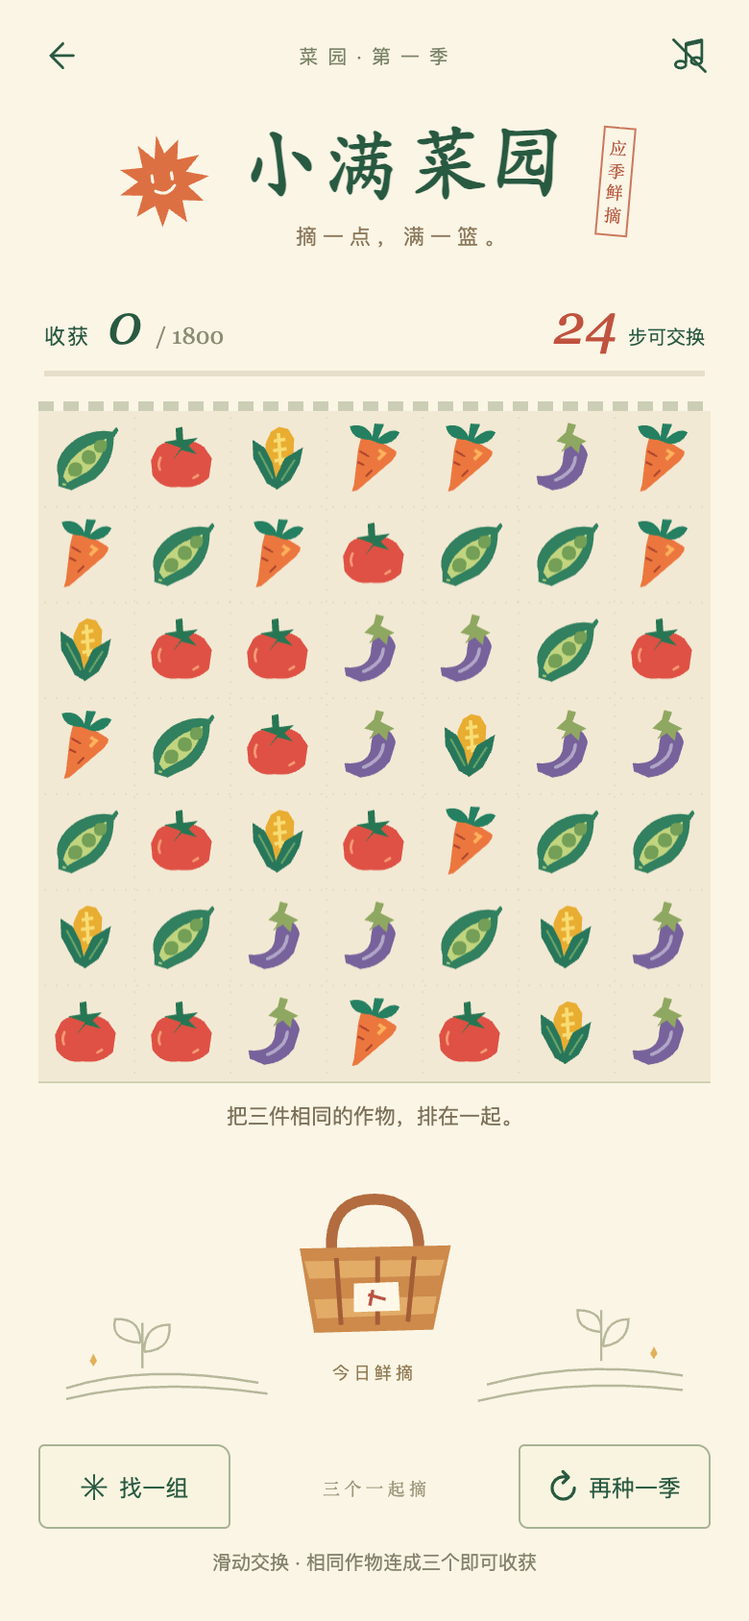
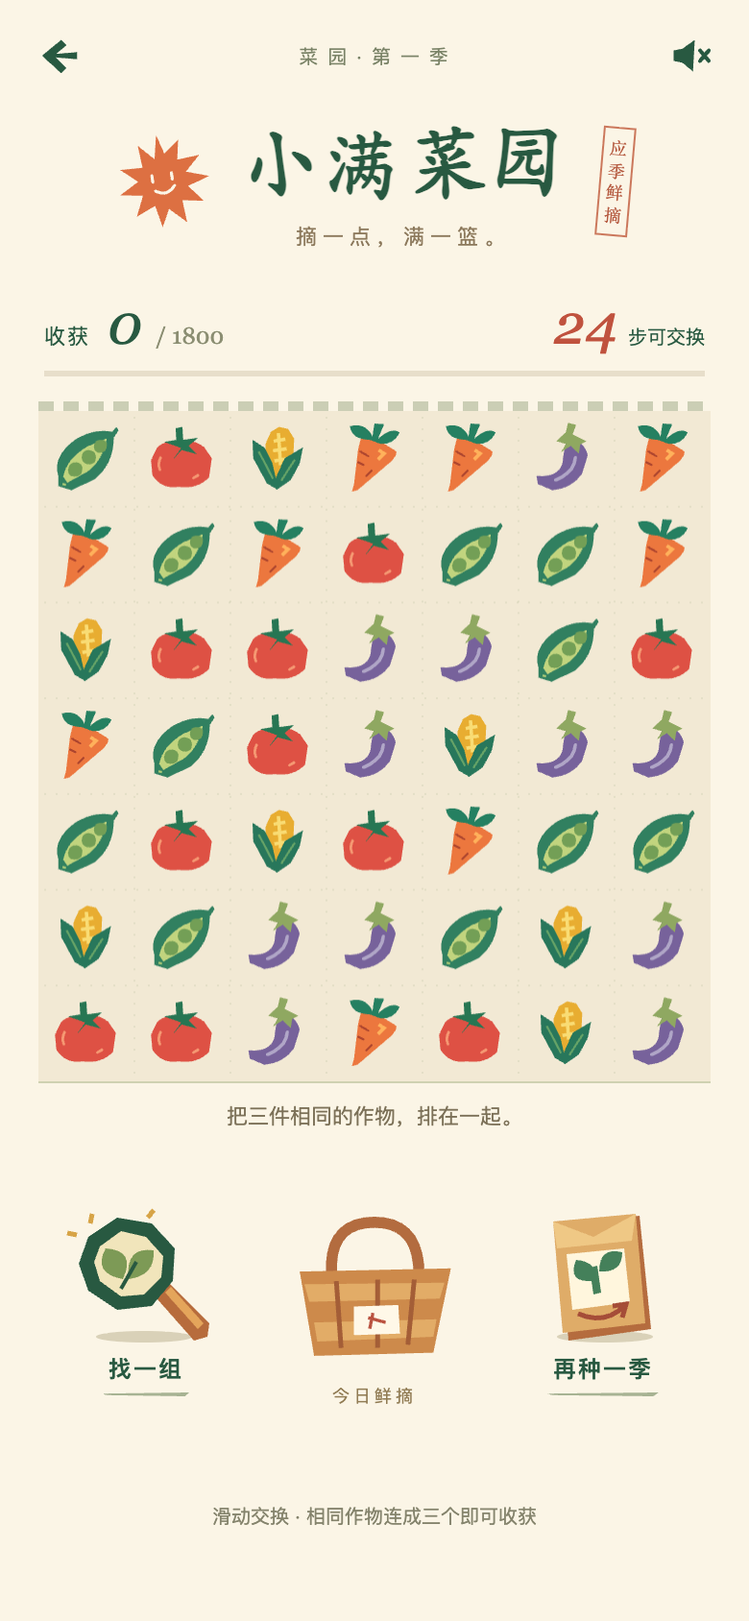
Refine game control art guidance and redraw farm UI

diff --git a/play/farm/skill/style.css b/play/farm/skill/style.css
@@ -1,5 +1,126 @@
-:root{--paper:#fbf5e6;--ink:#285941;--rust:#c0523e;--line:#d8cfb7}*{box-sizing:border-box}body{margin:0;background:#e7e7d6;color:var(--ink);font-family:-apple-system,BlinkMacSystemFont,"PingFang SC",sans-serif}button,a{-webkit-tap-highlight-color:transparent;touch-action:manipulation}button{font:inherit;cursor:pointer}button:focus-visible,a:focus-visible{outline:2px solid var(--rust);outline-offset:3px}.atelier{position:relative;max-width:430px;height:100svh;min-height:660px;max-height:960px;margin:auto;padding:max(10px,env(safe-area-inset-top)) 20px max(14px,env(safe-area-inset-bottom));background:var(--paper);display:flex;flex-direction:column;overflow:hidden}.navigation{height:38px;flex-shrink:0;display:flex;align-items:center;justify-content:space-between}.back,.sound{width:44px;height:44px;display:grid;place-items:center;background:none;border:0;color:var(--ink);padding:11px;text-decoration:none}.back{margin-left:-11px}.sound{margin-right:-11px}.navigation svg{width:22px;height:22px;stroke:currentColor;stroke-width:1.5;fill:none;stroke-linecap:round;stroke-linejoin:round}.sound[aria-pressed=true] .sound-off{display:none}.edition{font-size:10px;letter-spacing:1px;color:#7a8367}.identity{min-height:100px;display:flex;align-items:center;justify-content:center;gap:15px;flex-shrink:0;padding:4px 0 12px;position:relative}.identity h1{font:700 42px "Kaiti SC","STKaiti","Songti SC",serif;letter-spacing:1px;margin:0;line-height:1.18;white-space:nowrap}.identity h1 span{display:inline-block}.identity h1 span:nth-child(1){transform:rotate(-7deg)}.identity h1 span:nth-child(2){transform:translateY(2px) rotate(3deg)}.identity h1 span:nth-child(3){transform:rotate(-3deg)}.identity h1 span:nth-child(4){transform:translateY(-2px) rotate(5deg)}.sun{width:48px;height:48px;transform:rotate(-9deg);align-self:center}.sun svg{width:100%;height:100%}.subtitle{font-size:11px;letter-spacing:3px;margin:8px 0 0;text-align:center;color:#8c795c}.season-mark{border:1px solid #cb775b;color:#b55a40;font:9px/1.3 "Songti SC",serif;padding:4px 3px;transform:rotate(5deg);margin-left:1px}.work{display:flex;flex-direction:column;min-height:0;flex:1}.ledger{display:flex;justify-content:space-between;align-items:center;min-height:40px;padding:0 3px;flex-shrink:0}.score-ledger,.move-ledger{display:flex;align-items:baseline;gap:9px}.ledger-label{font-size:11px;letter-spacing:1px}.score-line{display:inline-flex;align-items:baseline;gap:5px}.score-line strong,.move-ledger strong{font:italic 29px/1 Georgia,serif;font-variant-numeric:tabular-nums;min-width:20px}.score-line>span{font:12px Georgia,serif;color:#8b8e72}.move-ledger strong{color:var(--rust)}.move-ledger{gap:6px}.move-ledger .ledger-label{font-size:10px;letter-spacing:0}.progress{height:3px;background:#e7deca;margin:5px 3px 13px;flex-shrink:0}.progress span{display:block;height:100%;width:0;background:var(--rust);transition:width .2s}.field-edge{height:5px;background:repeating-linear-gradient(90deg,#b1b99a 0 8px,transparent 8px 13px);opacity:.65;flex-shrink:0}.board{position:relative;aspect-ratio:1;width:100%;flex-shrink:0;touch-action:none;overflow:hidden;background:#f2e9d4;border-bottom:1px solid #cfd1b1}.board canvas,.cells{position:absolute;inset:0;width:100%;height:100%}.cells{display:grid;grid-template:repeat(7,1fr)/repeat(7,1fr)}.cell{background:none;border:0;padding:0;touch-action:none}.cell:focus-visible{outline:2px solid var(--rust);outline-offset:-3px}.status{font-size:11px;color:#7c7158;min-height:28px;line-height:1.6;text-align:center;margin:0;padding-top:8px;flex-shrink:0}.harvest-dock{position:relative;flex:1;min-height:92px;max-height:160px;display:flex;flex-direction:column;align-items:center;justify-content:center}.field-sketch{position:absolute;left:0;right:0;bottom:16px;pointer-events:none}.field-sketch svg{display:block;width:100%;height:85px}.basket{width:106px;height:106px;position:relative;margin-top:-17px}.basket-front{position:absolute;inset:0;background:url('../assets/basket-front.svg') center/contain no-repeat;z-index:2;pointer-events:none}.basket-crops{position:absolute;inset:0;clip-path:polygon(13.28125% 0,87.5% 0,87.5% 39.0625%,78.90625% 80.46875%,20.3125% 82.03125%,13.28125% 40.625%);pointer-events:none;z-index:1}.basket-caption{font-size:9px;letter-spacing:2px;color:#917c54;position:relative;margin-top:-5px}.basket-crop{position:absolute;width:31.25%;height:31.25%;background-image:url('../assets/crops-cut.svg');background-size:300% 200%}.harvest-flight{position:fixed;z-index:8;width:36px;height:36px;background-image:url('../assets/crops-cut.svg');background-size:300% 200%;pointer-events:none}.tools{display:flex;align-items:center;justify-content:space-between;gap:6px;flex-shrink:0}.tools button{font-size:12px;color:var(--ink);border:1px solid #a7b393;border-radius:3px 7px 3px 5px;background:#f8f4df;padding:10px 12px;min-height:44px;min-width:100px;display:flex;align-items:center;justify-content:center;gap:6px}.tools button span{font-size:19px}.tools button:active{background:#e4e9cd;transform:translateY(1px)}.tools button:disabled{opacity:.45}.tool-note{font:9px "Songti SC",serif;color:#9c987b}.instructions{flex-shrink:0;text-align:center;font-size:10px;color:#85846d;margin:10px 0 0;line-height:1.4}dialog{border:1px solid #b8bc9b;background:var(--paper);color:var(--ink);width:300px;max-width:90%;border-radius:5px 13px 5px 9px;text-align:center;padding:25px 24px 28px;box-shadow:0 15px 80px #31473540}dialog::backdrop{background:#334b385c;backdrop-filter:blur(2px)}.close-result{position:absolute;right:5px;top:3px;background:none;border:0;width:44px;height:44px;font-size:24px;color:#738164}.result-basket{width:85px;height:85px;margin:0 auto;position:relative}.result-eyebrow{font-size:9px;letter-spacing:1px;margin:8px 0 12px}dialog h2{font:700 30px "Kaiti SC","Songti SC",serif;margin:12px 0}#result-copy{font-size:12px;line-height:1.9;color:#7c8169}.result-score{display:flex;flex-direction:column;gap:6px;margin:20px}.result-score strong{font:italic 37px Georgia,serif;color:var(--rust)}.result-score span{font-size:10px}.play-again{border:0;background:var(--ink);color:var(--paper);border-radius:3px 6px 3px 6px;padding:13px 25px;font-size:14px;min-height:44px}@media(min-width:600px){.atelier{height:880px;margin:20px auto;box-shadow:0 8px 50px #3b4f3020;border-radius:5px}}@media(max-height:780px){.atelier{padding-top:max(6px,env(safe-area-inset-top));padding-bottom:max(10px,env(safe-area-inset-bottom))}.navigation{height:34px}.identity{min-height:82px;padding-bottom:8px}.identity h1{font-size:39px}.sun{width:42px;height:42px}.subtitle{margin-top:5px}.harvest-dock{min-height:80px}.status{min-height:25px;padding-top:5px}.progress{margin-bottom:9px}.instructions{margin-top:6px}}@media(max-height:700px){.identity{min-height:68px}.identity h1{font-size:34px}.sun{width:36px;height:36px}.season-mark{font-size:8px}.harvest-dock{min-height:62px}.basket{width:90px;height:90px;margin-top:-20px}.basket-caption{display:none}.instructions{font-size:9px}.ledger{min-height:36px}.status{font-size:10px}.tool-note{display:none}}@media(prefers-reduced-motion:reduce){*{transition:none!important}}
-@media(max-width:350px){.atelier{padding-left:14px;padding-right:14px}.identity{gap:9px}.identity h1{font-size:34px}.season-mark{display:none}.tools button{min-width:95px}.tool-note{display:none}}
+:root{--paper:#fbf5e6;--ink:#285941;--rust:#c0523e;--line:#d8cfb7}
+*{box-sizing:border-box}
+body{margin:0;background:#e7e7d6;color:var(--ink);font-family:-apple-system,BlinkMacSystemFont,"PingFang SC",sans-serif}
+button,a{-webkit-tap-highlight-color:transparent;touch-action:manipulation}
+button{font:inherit;cursor:pointer}
+button:focus-visible,a:focus-visible{outline:2px solid var(--rust);outline-offset:3px}
+.atelier{position:relative;max-width:430px;height:100svh;min-height:660px;max-height:960px;margin:auto;padding:max(10px,env(safe-area-inset-top)) 20px max(14px,env(safe-area-inset-bottom));background:var(--paper);display:flex;flex-direction:column;overflow:hidden}
+.navigation{height:38px;flex-shrink:0;display:flex;align-items:center;justify-content:space-between}
+.back,.sound{width:44px;height:44px;display:grid;place-items:center;background:none;border:0;color:var(--ink);padding:11px;text-decoration:none}
+.back{margin-left:-11px}
+.sound{margin-right:-11px}
+.navigation svg{width:22px;height:22px;stroke:currentColor;stroke-width:1.5;fill:none;stroke-linecap:round;stroke-linejoin:round}
+.sound[aria-pressed=true] .sound-off{display:none}
+.edition{font-size:10px;letter-spacing:1px;color:#7a8367}
+.identity{min-height:100px;display:flex;align-items:center;justify-content:center;gap:15px;flex-shrink:0;padding:4px 0 12px;position:relative}
+.identity h1{font:700 42px "Kaiti SC","STKaiti","Songti SC",serif;letter-spacing:1px;margin:0;line-height:1.18;white-space:nowrap}
+.identity h1 span{display:inline-block}
+.identity h1 span:nth-child(1){transform:rotate(-7deg)}
+.identity h1 span:nth-child(2){transform:translateY(2px) rotate(3deg)}
+.identity h1 span:nth-child(3){transform:rotate(-3deg)}
+.identity h1 span:nth-child(4){transform:translateY(-2px) rotate(5deg)}
+.sun{width:48px;height:48px;transform:rotate(-9deg);align-self:center}
+.sun svg{width:100%;height:100%}
+.subtitle{font-size:11px;letter-spacing:3px;margin:8px 0 0;text-align:center;color:#8c795c}
+.season-mark{border:1px solid #cb775b;color:#b55a40;font:9px/1.3 "Songti SC",serif;padding:4px 3px;transform:rotate(5deg);margin-left:1px}
+.work{display:flex;flex-direction:column;min-height:0;flex:1}
+.ledger{display:flex;justify-content:space-between;align-items:center;min-height:40px;padding:0 3px;flex-shrink:0}
+.score-ledger,.move-ledger{display:flex;align-items:baseline;gap:9px}
+.ledger-label{font-size:11px;letter-spacing:1px}
+.score-line{display:inline-flex;align-items:baseline;gap:5px}
+.score-line strong,.move-ledger strong{font:italic 29px/1 Georgia,serif;font-variant-numeric:tabular-nums;min-width:20px}
+.score-line>span{font:12px Georgia,serif;color:#8b8e72}
+.move-ledger strong{color:var(--rust)}
+.move-ledger{gap:6px}
+.move-ledger .ledger-label{font-size:10px;letter-spacing:0}
+.progress{height:3px;background:#e7deca;margin:5px 3px 13px;flex-shrink:0}
+.progress span{display:block;height:100%;width:0;background:var(--rust);transition:width .2s}
+.field-edge{height:5px;background:repeating-linear-gradient(90deg,#b1b99a 0 8px,transparent 8px 13px);opacity:.65;flex-shrink:0}
+.board{position:relative;aspect-ratio:1;width:100%;flex-shrink:0;touch-action:none;overflow:hidden;background:#f2e9d4;border-bottom:1px solid #cfd1b1}
+.board canvas,.cells{position:absolute;inset:0;width:100%;height:100%}
+.cells{display:grid;grid-template:repeat(7,1fr)/repeat(7,1fr)}
+.cell{background:none;border:0;padding:0;touch-action:none}
+.cell:focus-visible{outline:2px solid var(--rust);outline-offset:-3px}
+.status{font-size:11px;color:#7c7158;min-height:28px;line-height:1.6;text-align:center;margin:0;padding-top:8px;flex-shrink:0}
+.harvest-dock{position:relative;flex:1;min-height:124px;max-height:180px;display:grid;grid-template-columns:1fr 106px 1fr;align-items:center;column-gap:10px}
+.harvest-center{display:flex;flex-direction:column;align-items:center;align-self:center}
+.basket{width:106px;height:106px;position:relative;margin-top:-12px}
+.garden-tool{appearance:none;position:relative;justify-self:center;width:90px;height:100px;padding:0 1px 5px;border:0;background:none;color:var(--ink);display:flex;flex-direction:column;align-items:center;justify-content:flex-end;border-radius:0}
+.tool-art{display:block;width:88px;height:76px;overflow:visible;pointer-events:none}
+.tool-face{transform-origin:44px 65px;transition:transform 110ms ease-out}
+.tool-label{font-size:12px;font-weight:600;letter-spacing:1px;line-height:20px;position:relative}
+.tool-label:after{content:"";display:block;height:2px;background:#a7b393;clip-path:polygon(0 30%,100% 0,95% 100%,4% 70%);margin:2px -3px 0}
+.garden-tool:not(:disabled):active .tool-face,.play-again:active .tool-face{transform:translateY(3px) rotate(-4deg)}
+.seed-tool:not(:disabled):active .tool-face{transform:translateY(3px) rotate(3deg)}
+.garden-tool:not(:disabled):active .tool-label{color:var(--rust)}
+.garden-tool:disabled{cursor:default;color:#71745b}
+.garden-tool:disabled .tool-art{filter:grayscale(.8);opacity:.48}
+.garden-tool:focus-visible{outline-offset:1px}
+.sound[aria-pressed=false] .sound-on{display:none}
+.navigation svg{stroke-width:2}
+.navigation a:active svg,.navigation button:active svg{transform:translateY(2px)}
+.basket-front{position:absolute;inset:0;background:url('../assets/basket-front.svg') center/contain no-repeat;z-index:2;pointer-events:none}
+.basket-crops{position:absolute;inset:0;clip-path:polygon(13.28125% 0,87.5% 0,87.5% 39.0625%,78.90625% 80.46875%,20.3125% 82.03125%,13.28125% 40.625%);pointer-events:none;z-index:1}
+.basket-caption{font-size:9px;letter-spacing:2px;color:#917c54;position:relative;margin-top:-5px}
+.basket-crop{position:absolute;width:31.25%;height:31.25%;background-image:url('../assets/crops-cut.svg');background-size:300% 200%}
+.harvest-flight{position:fixed;z-index:8;width:36px;height:36px;background-image:url('../assets/crops-cut.svg');background-size:300% 200%;pointer-events:none}
+.instructions{flex-shrink:0;text-align:center;font-size:10px;color:#85846d;margin:10px 0 0;line-height:1.4}
+dialog{border:0;background:var(--paper);color:var(--ink);width:300px;max-width:90%;border-radius:0;text-align:center;padding:25px 24px 20px;box-shadow:0 15px 80px #31473540}
+dialog:before{content:"";position:absolute;inset:8px;pointer-events:none;border:1px solid #ccc3a6;clip-path:polygon(0 0,42% 0,42% 1%,58% 1%,58% 0,100% 0,100% 100%,0 100%)}
+dialog:after{content:"";position:absolute;top:0;left:calc(50% - 17px);width:34px;height:8px;background:#bd6246;clip-path:polygon(0 0,100% 0,97% 100%,3% 80%)}
+dialog::backdrop{background:#334b385c;backdrop-filter:blur(2px)}
+.close-result{position:absolute;right:5px;top:3px;background:none;border:0;width:44px;height:44px;font-size:24px;color:#738164}
+.result-basket{width:85px;height:85px;margin:0 auto;position:relative}
+.result-eyebrow{font-size:9px;letter-spacing:1px;margin:8px 0 12px}
+dialog h2{font:700 30px "Kaiti SC","Songti SC",serif;margin:12px 0}
+#result-copy{font-size:12px;line-height:1.9;color:#7c8169}
+.result-score{display:flex;flex-direction:column;gap:6px;margin:20px}
+.result-score strong{font:italic 37px Georgia,serif;color:var(--rust)}
+.result-score span{font-size:10px}
+.close-result svg{width:20px;height:20px;fill:none;stroke:currentColor;stroke-width:3}
+.play-again{appearance:none;border:0;background:none;color:var(--ink);padding:0 14px 6px;font-size:14px;font-weight:600;min-height:70px;display:inline-flex;align-items:center;gap:4px}
+.play-again .tool-art{width:66px;height:57px}
+.play-again>span{border-bottom:2px solid #a7b393;padding:5px 3px}
+.result-score{margin:16px}
+.result-score strong{font-size:35px}
+@media(min-width:600px){.atelier{height:880px;margin:20px auto;box-shadow:0 8px 50px #3b4f3020;border-radius:5px}
+}
+@media(max-height:780px){.atelier{padding-top:max(6px,env(safe-area-inset-top));padding-bottom:max(10px,env(safe-area-inset-bottom))}
+.navigation{height:34px}
+.identity{min-height:82px;padding-bottom:8px}
+.identity h1{font-size:39px}
+.sun{width:42px;height:42px}
+.subtitle{margin-top:5px}
+.harvest-dock{min-height:122px}
+.status{min-height:25px;padding-top:5px}
+.progress{margin-bottom:9px}
+.instructions{margin-top:6px}
+}
+@media(max-height:700px){.identity{min-height:68px}
+.identity h1{font-size:34px}
+.sun{width:36px;height:36px}
+.season-mark{font-size:8px}
+.harvest-dock{min-height:114px;grid-template-columns:1fr 90px 1fr;gap:3px}
+.basket{width:90px;height:90px;margin-top:-8px}
+.basket-caption{font-size:8px}
+.instructions{font-size:9px}
+.ledger{min-height:36px}
+.status{font-size:10px}
+}
+@media(prefers-reduced-motion:reduce){*{transition:none!important}
+}
+
+@media(max-width:350px){.atelier{padding-left:14px;padding-right:14px}
+.identity{gap:9px}
+.identity h1{font-size:34px}
+.season-mark{display:none}
+}
+
 
 /* Shared coordinates for the handle, interior mask, produce and opaque rim. */
 .basket,.result-basket{isolation:isolate;background:url('../assets/basket-back.svg') center/contain no-repeat}
+
+
+@media(max-height:700px){.garden-tool{height:96px}
+.tool-art{width:80px;height:69px}
+}

diff --git a/play/farm/skill/index.html b/play/farm/skill/index.html
@@ -1,14 +1,14 @@
 <!doctype html>
 <html lang="zh-CN">
 <head>
-<meta charset="utf-8"><meta name="viewport" content="width=device-width,initial-scale=1,viewport-fit=cover"><meta name="theme-color" content="#fbf5e6"><link rel="icon" href="data:,"><title>小满菜园 · 消消乐</title><link rel="stylesheet" href="./style.css">
+<meta charset="utf-8"><meta name="viewport" content="width=device-width,initial-scale=1,viewport-fit=cover"><meta name="theme-color" content="#fbf5e6"><link rel="icon" href="data:,"><title>小满菜园 · 消消乐</title><link rel="stylesheet" href="./style.css?v=3.2.0">
 </head>
 <body>
 <main class="atelier">
   <nav class="navigation" aria-label="游戏导航">
-    <a class="back" href="../index.html" aria-label="返回游戏展架"><svg viewBox="0 0 24 24" aria-hidden="true"><path d="m14 5-7 7 7 7M7 12h13"/></svg></a>
+    <a class="back" href="../index.html" aria-label="返回游戏展架"><svg viewBox="0 0 24 24" aria-hidden="true"><path fill="currentColor" stroke="none" d="m13 3 3 3-6 5 12-1v4l-12-1 6 6-3 3L2 12Z"/></svg></a>
     <span class="edition">菜 园 · 第 一 季</span>
-    <button id="sound" class="sound" type="button" aria-label="开启声音" aria-pressed="false"><svg viewBox="0 0 24 24" aria-hidden="true"><path d="M10 16V5l9-2v11M10 6l9-2"/><ellipse cx="7" cy="17" rx="3" ry="2"/><ellipse cx="16" cy="15" rx="3" ry="2"/><path class="sound-off" d="m3 3 18 18"/></svg></button>
+    <button id="sound" class="sound" type="button" aria-label="开启声音" aria-pressed="false"><svg viewBox="0 0 24 24" aria-hidden="true"><path fill="currentColor" stroke="none" d="m3 9 5-1 7-5-1 18-6-5-5-1Z"/><path class="sound-on" d="M18 7q5 5 0 10" stroke-width="2.5"/><path class="sound-off" d="m18 9 5 6m0-6-5 6" stroke-width="2.2"/></svg></button>
   </nav>
   <header class="identity">
     <div class="sun" aria-hidden="true"><svg viewBox="0 0 70 70"><path d="m35 0 4 15 12-9-3 15 17-1-12 11 17 6-17 5 10 13-16-3 1 17-12-12-7 13-3-17-15 6 7-15-17-3 15-8L4 22l17 1-1-17 11 12Z" fill="#dd7042"/><path d="M27 30v5m15-5v5m-14 7q8 6 15-2" fill="none" stroke="#fbf5e6" stroke-width="2.3" stroke-linecap="round"/></svg></div>
@@ -24,15 +24,14 @@
     <div class="field-edge" aria-hidden="true"></div>
     <div id="board" class="board" aria-busy="true"><canvas id="art" aria-hidden="true"></canvas><div id="cells" class="cells" role="group" aria-label="七行七列作物。方向键移动焦点，回车选中两件相邻作物，或手指轻扫交换。"></div></div>
     <p id="status" class="status" role="status" aria-live="polite">正在整理菜地…</p>
-    <div class="harvest-dock" aria-label="收获篮">
-      <div class="field-sketch" aria-hidden="true"><svg viewBox="0 0 340 90"><g fill="none" stroke="#b6b89a" stroke-width="1.3"><path d="M0 76Q44 62 106 73m-106 9q48-12 111-3m121-5q51-14 108-5m-113 14q54-13 113-6M42 65V40m-1 11q-17-1-14-13 14-1 14 13m2 5q0-15 14-15 1 14-14 15m252 5V33m0 12q-14-1-13-12 14 0 13 12m1 8q1-15 14-15 0 13-14 15"/></g><g fill="#e3b05c"><path d="m13 61 2-4 2 4-2 3m307-7 2-4 2 4-2 3"/></g></svg></div>
-      <div class="basket"><div id="receiver" class="basket-crops" aria-hidden="true"></div><div class="basket-front" aria-hidden="true"></div></div>
-      <span class="basket-caption">今日鲜摘</span>
+    <div class="harvest-dock" aria-label="收获与农具">
+      <button id="hint" class="garden-tool hint-tool" type="button" disabled><svg class="tool-art" viewBox="0 0 88 76" aria-hidden="true"><ellipse class="tool-shadow" cx="43" cy="69" rx="25" ry="3" fill="#d9d1b8"/><g class="tool-face"><path fill="#b76c3c" d="m46 45 8-6 23 23-1 7-7 2Z"/><path fill="#e4a55b" d="m54 46 3-3 17 19-3 3Z"/><path fill="#285941" d="M14 17 29 7 47 10 59 23 58 40 47 53 29 55 14 45 9 31Z"/><path fill="#f1e5bb" d="m20 22 11-8 13 3 9 10-1 11-9 9-12 1-11-8-3-10Z"/><path fill="#7d9a56" d="M32 39Q16 36 23 23q16 1 9 16m3 0q-2-17 13-15 1 13-13 15"/><path d="m31 44 8-14" stroke="#285941" stroke-width="2"/><path d="m15 10 1-5m-8 11-5-1m42-8 3-4" stroke="#d7a447" stroke-width="2.5"/></g></svg><span class="tool-label">找一组</span></button>
+      <div class="harvest-center"><div class="basket"><div id="receiver" class="basket-crops" aria-hidden="true"></div><div class="basket-front" aria-hidden="true"></div></div><span class="basket-caption">今日鲜摘</span></div>
+      <button id="restart" class="garden-tool seed-tool" type="button" disabled><svg class="tool-art" viewBox="0 0 88 76" aria-hidden="true"><ellipse class="tool-shadow" cx="45" cy="69" rx="25" ry="3" fill="#d9d1b8"/><g class="tool-face"><path fill="#b56c3e" d="m21 10 42-4 6 59-43 6Z"/><path fill="#dfac68" d="m18 9 43-4 5 57-43 5Z"/><path fill="#efc885" d="m18 9 21 8 22-12-2 14-39 4Z"/><path fill="#fff6dd" d="m25 26 30-3 3 28-30 4Z"/><path fill="#44805a" d="m39 47-2-14 4-1 2 14Zm0-7Q25 41 30 29q12 1 9 11m3-5q0-13 12-10 0 11-12 10"/><path d="M31 57q14 6 24-4m-1 6 2-7-7 1" fill="none" stroke="#a54d38" stroke-width="2.5"/></g></svg><span class="tool-label">再种一季</span></button>
     </div>
-    <div class="tools"><button id="hint" type="button" disabled><span aria-hidden="true">✳</span> 找一组</button><span class="tool-note" aria-hidden="true">三 个 一 起 摘</span><button id="restart" type="button" disabled><span aria-hidden="true">↻</span> 再种一季</button></div>
     <p class="instructions">滑动交换 · 相同作物连成三个即可收获</p>
   </section>
-  <dialog id="result" aria-labelledby="result-title"><button id="close-result" class="close-result" type="button" aria-label="关闭结果，查看菜地">×</button><div class="result-basket" aria-hidden="true"></div><p class="result-eyebrow">小 满 菜 园 · 今 日 收 成</p><h2 id="result-title"></h2><p id="result-copy"></p><div class="result-score"><strong id="result-score"></strong><span>收获积分</span></div><button id="play-again" class="play-again" type="button">再种一季</button></dialog>
+  <dialog id="result" aria-labelledby="result-title"><button id="close-result" class="close-result" type="button" aria-label="关闭结果，查看菜地"><svg viewBox="0 0 24 24" aria-hidden="true"><path d="m6 5 13 14M18 5 5 18"/></svg></button><div class="result-basket" aria-hidden="true"></div><p class="result-eyebrow">小 满 菜 园 · 今 日 收 成</p><h2 id="result-title"></h2><p id="result-copy"></p><div class="result-score"><strong id="result-score"></strong><span>收获积分</span></div><button id="play-again" class="play-again" type="button"><svg class="tool-art" viewBox="0 0 88 76" aria-hidden="true"><ellipse class="tool-shadow" cx="45" cy="69" rx="25" ry="3" fill="#d9d1b8"/><g class="tool-face"><path fill="#b56c3e" d="m21 10 42-4 6 59-43 6Z"/><path fill="#dfac68" d="m18 9 43-4 5 57-43 5Z"/><path fill="#efc885" d="m18 9 21 8 22-12-2 14-39 4Z"/><path fill="#fff6dd" d="m25 26 30-3 3 28-30 4Z"/><path fill="#44805a" d="m39 47-2-14 4-1 2 14Zm0-7Q25 41 30 29q12 1 9 11m3-5q0-13 12-10 0 11-12 10"/><path d="M31 57q14 6 24-4m-1 6 2-7-7 1" fill="none" stroke="#a54d38" stroke-width="2.5"/></g></svg><span>再种一季</span></button></dialog>
 </main>
 <script type="module" src="./app.js"></script>
 </body></html>

diff --git a/play/farm/index.html b/play/farm/index.html
@@ -1,1 +1,1 @@
-<!doctype html><html lang="zh-CN"><head><meta charset="UTF-8"><meta name="viewport" content="width=device-width,initial-scale=1"><title>农场消消乐 · 两种版本</title><link rel="icon" href="data:,"><style>*{box-sizing:border-box}body{margin:0;background:#f6f3e8;color:#33452e;font-family:-apple-system,BlinkMacSystemFont,'PingFang SC',sans-serif}main{max-width:930px;margin:auto;padding:44px 24px}header{border-bottom:1px solid #d7ddc9;padding-bottom:25px;margin-bottom:30px}h1{font:700 36px 'Songti SC',serif;margin:0 0 14px}p{color:#7b826c;font-size:13px;line-height:1.9;margin:0}.versions{display:grid;grid-template-columns:1fr 1fr;gap:30px}article{min-width:0}h2{font-size:19px;margin:0 0 8px}article p{min-height:50px}a{color:inherit;text-decoration:none}.preview{display:block;background:#e8eadb;border-radius:16px;overflow:hidden;margin:15px 0;height:470px;text-align:center}.preview img{height:100%;max-width:100%;object-fit:contain}.play{display:block;padding:15px;background:#526d3b;color:#fffbe9;border-radius:8px;text-align:center;font-size:14px}.baseline{background:#fff;border:1px solid #a8b293;color:#48623d}footer{margin-top:30px;border-top:1px solid #d7ddc9;padding-top:20px;font-size:11px;line-height:1.9;color:#929681}a:focus-visible{outline:3px solid #d9a953;outline-offset:4px}@media(max-width:600px){main{padding:28px 16px}h1{font-size:29px}.versions{gap:14px}.preview{height:330px;border-radius:10px}.preview img{width:100%;height:100%;object-fit:cover;object-position:top}h2{font-size:16px}article p{font-size:11px;min-height:67px}.play{font-size:12px;padding:14px 5px}footer{font-size:10px}}</style></head><body><main><header><h1>一块菜地，两种表达。</h1><p>农场消消乐 · 手机竖屏 · 24 步收获 1,800 分</p></header><section class="versions"><article><h2>不用 Skill</h2><p>清晰的农场棋盘与原创蔬菜图形，<br>完整交换、连锁和胜负流程。</p><a class="preview" href="plain/"><img src="previews/plain.png" alt="不用技能版本的实际游戏画面"></a><a class="play baseline" href="plain/">开始玩 · 普通版 →</a></article><article><h2>用 Skill 打磨</h2><p>小满菜园：切形蔬菜与轻快的采摘，<br>每一组收获，都会落进篮子。</p><a class="preview" href="skill/"><img src="previews/skill.png" alt="技能优化版本的实际游戏画面"></a><a class="play" href="skill/">开始玩 · 优化版 →</a></article></section><footer>两版使用相同初始棋盘、随机种子与规则。普通版由未读取美术技能的独立执行者制作；优化版按 indie-game-art 3.1.0 重绘作物、篮子和界面，并打磨采摘动作。这是可玩的设计对照，不是严格实验。支持点选、滑动与键盘操作。</footer></main></body></html>
+<!doctype html><html lang="zh-CN"><head><meta charset="UTF-8"><meta name="viewport" content="width=device-width,initial-scale=1"><title>农场消消乐 · 两种版本</title><link rel="icon" href="data:,"><style>*{box-sizing:border-box}body{margin:0;background:#f6f3e8;color:#33452e;font-family:-apple-system,BlinkMacSystemFont,'PingFang SC',sans-serif}main{max-width:930px;margin:auto;padding:44px 24px}header{border-bottom:1px solid #d7ddc9;padding-bottom:25px;margin-bottom:30px}h1{font:700 36px 'Songti SC',serif;margin:0 0 14px}p{color:#7b826c;font-size:13px;line-height:1.9;margin:0}.versions{display:grid;grid-template-columns:1fr 1fr;gap:30px}article{min-width:0}h2{font-size:19px;margin:0 0 8px}article p{min-height:50px}a{color:inherit;text-decoration:none}.preview{display:block;background:#e8eadb;border-radius:16px;overflow:hidden;margin:15px 0;height:470px;text-align:center}.preview img{height:100%;max-width:100%;object-fit:contain}.play{display:block;padding:15px;background:#526d3b;color:#fffbe9;border-radius:8px;text-align:center;font-size:14px}.baseline{background:#fff;border:1px solid #a8b293;color:#48623d}footer{margin-top:30px;border-top:1px solid #d7ddc9;padding-top:20px;font-size:11px;line-height:1.9;color:#929681}a:focus-visible{outline:3px solid #d9a953;outline-offset:4px}@media(max-width:600px){main{padding:28px 16px}h1{font-size:29px}.versions{gap:14px}.preview{height:330px;border-radius:10px}.preview img{width:100%;height:100%;object-fit:cover;object-position:top}h2{font-size:16px}article p{font-size:11px;min-height:67px}.play{font-size:12px;padding:14px 5px}footer{font-size:10px}}</style></head><body><main><header><h1>一块菜地，两种表达。</h1><p>农场消消乐 · 手机竖屏 · 24 步收获 1,800 分</p></header><section class="versions"><article><h2>不用 Skill</h2><p>清晰的农场棋盘与原创蔬菜图形，<br>完整交换、连锁和胜负流程。</p><a class="preview" href="plain/"><img src="previews/plain.png" alt="不用技能版本的实际游戏画面"></a><a class="play baseline" href="plain/">开始玩 · 普通版 →</a></article><article><h2>用 Skill 打磨</h2><p>小满菜园：切形蔬菜与轻快的采摘，<br>农具式操作，每一组收获都落进篮子。</p><a class="preview" href="skill/"><img src="previews/skill.png" alt="技能优化版本的实际游戏画面"></a><a class="play" href="skill/">开始玩 · 优化版 →</a></article></section><footer>两版使用相同初始棋盘、随机种子与规则。普通版由未读取美术技能的独立执行者制作；优化版按 indie-game-art 3.2.0 重绘作物、篮子和界面，并打磨采摘动作。这是可玩的设计对照，不是严格实验。支持点选、滑动与键盘操作。</footer></main></body></html>

diff --git a/skills/indie-game-art/references/interface.md b/skills/indie-game-art/references/interface.md
@@ -6,11 +6,25 @@ For one live decision, identify the thing being judged, the facts that must rema
 
 Give permanent space to what stays useful through repeated play. Attach an intention to its character when the player is comparing several actors. Put the tally at a fixed location when it must be tracked through chaotic changes. Fold nameplates or teaching into arrival where they have a reason to be read. A spare margin can make an approaching threat feel far away. A crowded market can make looking through the crowd the pleasure. Check what moving the evidence does to the activity.
 
-## Give controls a physical or graphic vocabulary
+## Draw controls as part of the game's visual language
 
-Draw the action in relation to the thing affected. A reversible selector can sit beside the alternatives. A lever can hinge at a fixed point, exposing a colored underside as it travels. A rapid abstract command can be a spare mark whose gaps close under pressure. A hollow socket may still make sense when its tool is unavailable. Find a perceptible difference between permanent navigation, a contextual verb and the exceptional onward action. They can share ink and typography while having different scale, anchors, silhouettes and behavior.
+Start from two or three visible decisions in the approved art: a heavy body with a narrow neck, blunt cut edges, interrupted lines, an offset center, or generous enclosed space. Draw those relationships into the control face and icon, not just its decoration. Look at the actual object alongside the actor or board at playing size. An illustration above an unchanged generic toolbar is still a separate visual system.
 
-Lay out resting, focused, pressed, confirmed and unavailable states together where those states exist. Use real labels and a realistic neighboring control. Keep the hit area stable while the painted face moves. Inspect contact at actual thumb size and with keyboard or controller focus. Check a failed or delayed action. A depressed face can confirm contact immediately while success waits for the rule. If a glyph hides an irreversible consequence, restore the label. A clear labeled button is a good solution for the right verb.
+Choose an appropriate owner and role. A contextual tool can live beside the object it changes. Permanent navigation should remain easy to find. A frequent retry should be quick to reach; an exceptional onward action may deserve a larger shape. Separate restart from help even if both use the same ink. For an abstract game, work with rhythm, geometry and gaps rather than inventing physical props. Do not turn every game into wooden signs, paper labels or a collection of themed objects. Rectangles and clear conventional controls can be right when they express this game's language or support a difficult comparison.
+
+Draw the real label, icon, face and nearby control together. Make the silhouette intentional, the pictogram recognizable, and the label readable without deciphering the fiction. At phone scale, remove details that collapse into dirt. A decorative shape must not make the available action look like inert scenery. If that happens, strengthen its placement, label or contact cue before adding more ornament. Preserve a name and consequence for unfamiliar or destructive actions.
+
+### Contact belongs to the drawing
+
+Show resting, focused, pressed and unavailable states where applicable. Keep the hit region stable and generous while the drawn face moves. Decide what stays anchored and what yields: a lever turns at its hinge, a stamp compresses toward the paper, a geometric gap closes. Use a small immediate contact change; confirmation belongs to the affected object once the rule succeeds. Do not substitute a generic whole-button bounce for every action. Reduced-motion input still needs a visible contact and result state.
+
+Use authored SVG, sprites or deliberately selected glyphs for the icon family. Do not rely on emoji or platform-dependent Unicode symbols for essential game controls: their color, weight and silhouette may change on a phone. Keep labels as accessible text when possible. Native semantic buttons are appropriate implementation; their default browser appearance is not an art direction. Provide explicit accessible names, visible keyboard focus, readable disabled states, and a pointer-cancel path. Decorative SVG must not add duplicate accessible names.
+
+### Review the control in use
+
+Inspect an ordinary live frame, a pressed control, a temporarily unavailable action and the result/return screen at the target viewport. Compare the control's edge weight, scale and density with the game's main objects. Test actual touch and keyboard activation, including cancellation and a delayed action. Measure the input region separately from the painted silhouette: adjoining targets must not overlap, labels must fit, and short screens must not hide the actions. Check the target browser or state what remains untested.
+
+For a repair, keep the before and after in the same game state. Explain which visible relationship changed, not just which CSS properties changed. If only the palette or a background plate changed, reopen the drawing. Functional checks establish usability; they cannot prove the new object is appealing.
 
 ## Edit the words that coexist
 

diff --git a/skills/indie-game-art/SKILL.md b/skills/indie-game-art/SKILL.md
@@ -2,7 +2,7 @@
 name: indie-game-art
 description: Art-direct a game's playable image, interface, on-screen writing and performances. Use for a prototype seeking an identity, finished artwork that feels generic, game screens that feel like a website, or actions and endings that lack expression.
 metadata:
-  version: "3.1.0"
+  version: "3.2.0"
 ---
 
 # Indie Game Art
@@ -37,6 +37,10 @@ Distinctive is not automatically beautiful, and beautiful is not automatically r
 When a new identity is genuinely open, make two credible treatments of **the same actor, verb or relationship** in the same playable situation. Vary something expensive to fake with a skin. A watchful animal can be a long, precarious line broken by a sudden jab, or a compact mass that stores force before releasing it. Both may read clearly. Which belongs in this game, and what pleasure does the other drawing lose? [Original silhouette and timing plate](plates/bird-study.svg)
 
 For that identity exploration, bring one specific observation from life or an art practice, and one relevant moment from a game maker's work. An approved direction or a small repair does not require reopening the style search. Identify the artistic decision, the condition that made it work there and what you will change here. Draw the result at normal scale in the busiest ordinary frame. Judge the edges, values and motion the player actually sees. For a screen where waiting, reading or looking around is the reward, give the quiet space as much attention as the object. [Source decisions and their costs](references/field-notes.md) · [Composition, characters and materials](references/picture.md)
+
+## Give the controls the same authorship
+
+When buttons or menus look like a website, read [the interface guidance](references/interface.md) before editing them. Draw the actual controls in the playable frame, including a neighboring control and the pressed state. Carry the game’s decisions about mass, edges and negative space into their silhouettes, symbols and contact behavior. Changing border radius, palette, texture or the font of a standard action row does not by itself solve this complaint. A physical prop is one option; an expressive abstract mark can be just as specific. Keep clear action names and stable input targets.
 
 ## Edit the entire beat
 

diff --git a/play/farm/README.md b/play/farm/README.md
@@ -3,7 +3,7 @@
 本地运行：`python3 -m http.server 4175 --bind 127.0.0.1`，打开 http://127.0.0.1:4175/。
 
 - `plain/`：独立普通版，未读取美术技能；本轮未修改。
-- `skill/`：小满菜园，使用 indie-game-art **3.1.0** 重新制作美术与采摘表现。
+- `skill/`：小满菜园，使用 indie-game-art **3.2.0** 制作美术与采摘表现，并重新绘制游戏控件。
 - `shared/core.js`：共享规则，7×7，seed43，24步，1800分；本轮未修改，无效交换不扣步。
 - `studies/style-comparison.html`：同一个初始棋盘上，两套原创画法的实际尺寸比较。
 - `studies/action-comparison.html`：直接入篮与飞行入篮的动作比较，以及输入、传递、静止结果的实机截图。
@@ -16,3 +16,5 @@
 已验证：Chrome手机模拟390×844、360×740全屏布局；360×640、320×568窄短屏无横向溢出（短屏可纵向滚动）。有效/无效交换、真实触摸滑动、键盘、提示、7波连锁胜利、结算后重开、动画中途重开、减少动态模式，均通过断言；无页面脚本错误。未进行实体手机Safari测试。
 
 两版规则与初始棋盘一致。seed43有一步多连锁可达标的组合，本轮为美术重做，未改变玩法平衡。两版并非严格因果实验。
+
+3.2 控件检查：Chrome 手机模拟 390/360/320 宽度下，点击区与篮子、棋盘互不重叠；按压、移出取消、触摸取消、键盘焦点、提示忙碌禁用、声音状态均通过。原有交换、采摘、连锁结算与重开检查通过。

diff --git a/README.md b/README.md
@@ -14,7 +14,7 @@ Indie Game Art v3 works on one playable moment at a time, from the shape of a ch
 
 Portrait 2D surfing: hold to charge, release to jump. Both editions use the same 800 m course and physics. The Skill edition adds an original woodblock-style seascape and distinct crouching, airborne and landing poses. Asset effort differs; this is a playable design comparison, not a controlled experiment.
 
-## Farm Match-3 · Skill 3.1
+## Farm Match-3 · Skill 3.2
 
 [Play the two editions](https://hanszcy.github.io/indie-game-art/play/farm/)
 
